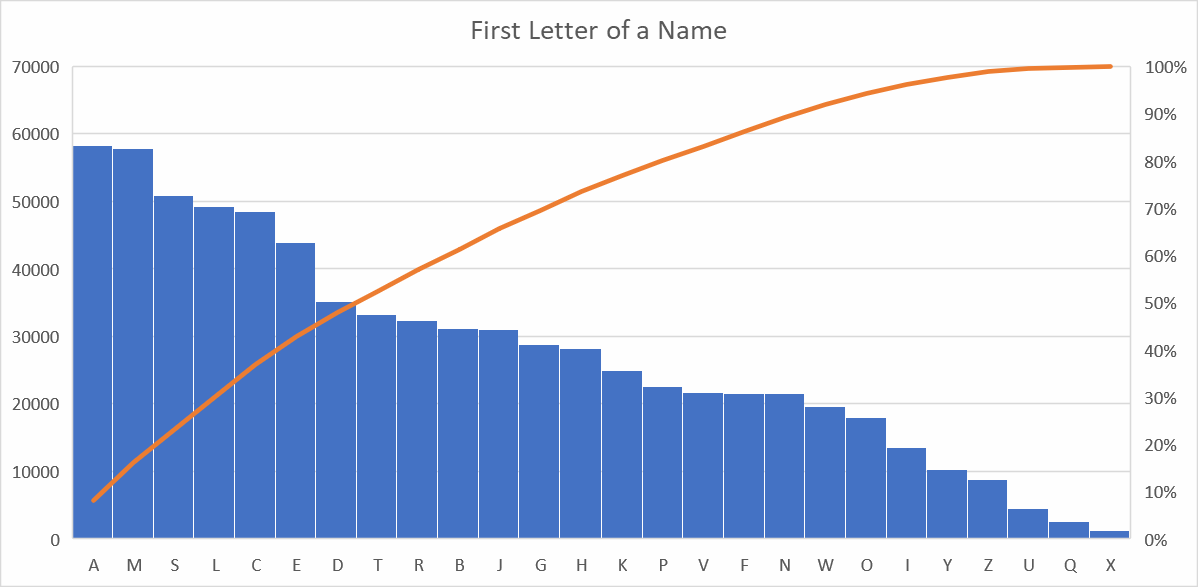
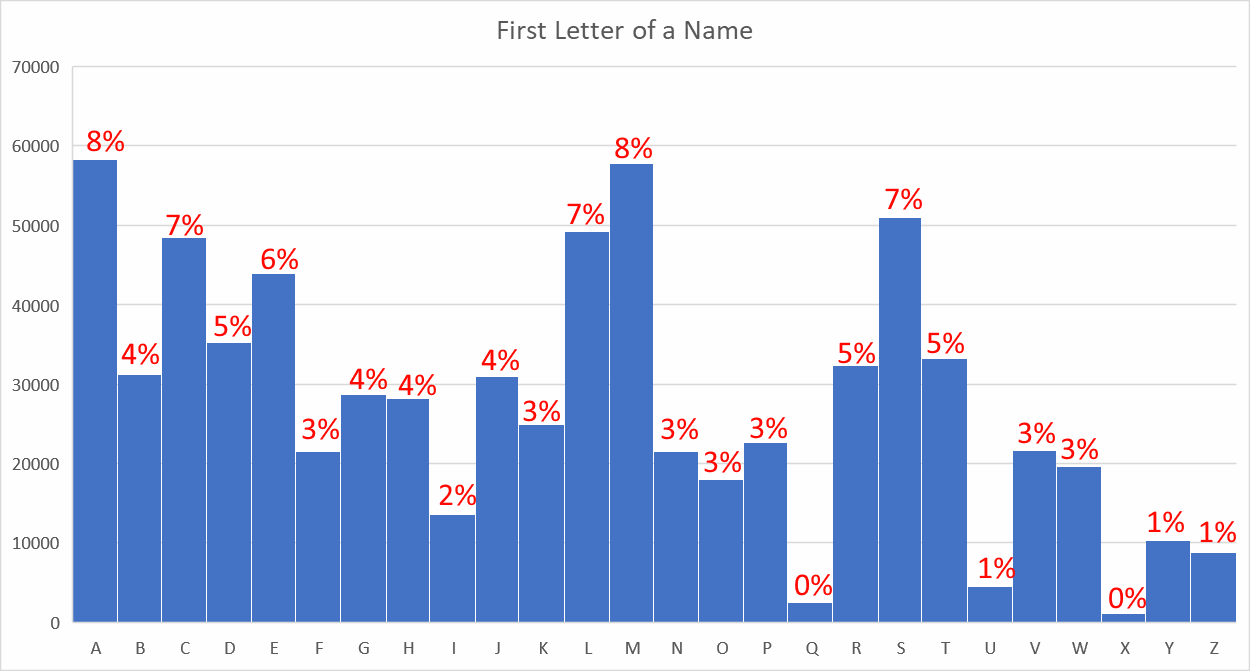
a

diff --git a/ssn/articles/ssnnames.html b/ssn/articles/ssnnames.html
@@ -64,24 +64,24 @@
         <img src="../../img/names1.JPG"><br><br>
         This program slurps in the file (line 4) and iterates over each line. we extract first and last name from each row (lines 15,16) and then push them into their own hashes (lines 22,23).  At the end (line 34) we cycle through the hash for each element and toss it into a file.<br><Br>
         this script is run 3 times, where line 4 is run on file ssdm1, ssdm2, ssdm3 with<br>
-        perl program.pl > lastname-file1.txt<br>
+        <b>perl program.pl > lastname-file1.txt<br>
         perl program.pl > lastname-file2.txt<br>
-        perl program.pl > lastname-file3.txt<br>
+        perl program.pl > lastname-file3.txt<br></b>
         note the use of '>' from the command line to redirect the STDIO (screen) to a file so we don't have to write this stupid part in PERL.
         <br>
         then line 39 is changed to %firstnamehash and run again<br>
-        perl program2.pl > firstname-file1.txt<br>
+        <b>perl program2.pl > firstname-file1.txt<br>
         perl program2.pl > firstname-file2.txt<br>
-        perl program2.pl > firstname-file3.txt<br>
+        perl program2.pl > firstname-file3.txt<br></b>
 
         <br>
         <img src="../../img/names2.JPG"><br><br>
-        now a quick script is run to join 3 of each file together. if you were on linux you could use  cat probably, but on win10 we get to do it the hard way for those of us that haven't dove into powershell yet.  <br>
+        now a quick script is run to join 3 of each file together. If you were on linux you could use  cat probably, but on win10 we get to do it the hard way for those of us that haven't dove into powershell yet.  <br>
         we run this script to join the 3 first name files together by first reading everything into a hash, and the putting the hash out in line 39. we run this with:<br>
-        perl program3.pl > firstname-all.txt<br><br>
+        <b>perl program3.pl > firstname-all.txt</b><br><br>
 
         now change lines 11, 20, and 29 to point to lastname files. and change change the names of all the variables to lastname if you want to be consistent and proper, or just ignore it - and run again as:<br>
-        perl program4.pl > lastname-all.txt<br><br>
+        <b>perl program4.pl > lastname-all.txt</b><br><br>
 
         <img src="../../img/names3.JPG"><br>
         We now have a file showing 719,037 unique first names! they arn't in alphabetical order, so we pop em over to excel for a quick tidy up and that seems to work well.
@@ -91,8 +91,11 @@
 
         The results so far are the following, just for first names:<br>
 
-        <img src="../../img/namechart1.png"><br>
-        This shows 25% of the names are 7 digits in length.  The data has been slightly processed in that I took the single character names out. I can't find the United States current naming rules, but I suspect the single letters A-Z are valid, but we ignore that for now, because its boring. The longest n
+        <img src="../../img/namechart1.png" width=100%><br>
+        This shows 25% of the names are 7 digits in length.  The data has been slightly processed in that I took the single character names out. I can't find the United States current naming rules, but I suspect the single letters A-Z are valid, but we ignore that for now, because its boring. The longest name is 12 characters long in the dataset.<br><br>
+
+        <img src="../../img/namechart1.png" width=100%><br>
+        of the ~720K names, 50k start with the letter 'L', and 7% start with the letter 'S'.  
 
 
 
